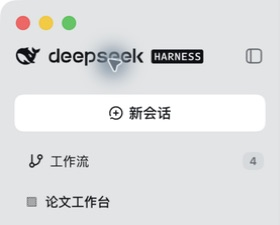
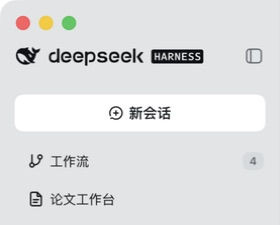
Add per-paper workspace instructions and matching navigation typography

Changed region(s): [[0.0857, 0.84, 0.4286, 0.9333], [0.3143, 0.1867, 0.4857, 0.3733]]

diff --git a/dist/client.js b/dist/client.js
@@ -44726,7 +44726,7 @@ body:has(.lp) .lp-home-entry, body:has(.lp-entry:not(.lp-home-entry .lp-entry)) 
 .lp-workspaces-host > .wf-workspace-wrapper { display:contents; }
 .lp-workspaces-host .wf-workspace-wrapper > .wf-tree { order:-1; }
 .lp-workspaces-host .wf-workspace-wrapper > :not(.wf-tree) { order:1; }
-.lp-sidebar-entry { display:flex; align-items:center; gap:8px; flex:none; order:0; margin:0 6px 8px; padding:8px; border:0; background:transparent; color:var(--dsw-alias-label-primary); font:500 13px/1.5 system-ui; text-align:left; }
+.lp-sidebar-entry { display:flex; align-items:center; gap:6px; flex:none; order:0; margin:0 6px 8px; min-height:30px; min-width:0; padding:5px 10px; border-radius:9px; border:0; background:transparent; color:var(--dsw-alias-label-primary); font:400 13px/1.5 var(--dsw-font-family, system-ui, sans-serif); letter-spacing:0; text-align:left; }
 .lp-sidebar-entry:hover { background:var(--dsw-alias-interactive-bg-hover); }
 .lp-sidebar-entry.is-rail { justify-content:center; margin-inline:0; }
 .dshDesktopFrame:has(.lp) { grid-template-columns:0 minmax(0,1fr) 0 !important; }
@@ -44735,6 +44735,10 @@ body:has(.lp) .lp-home-entry, body:has(.lp-entry:not(.lp-home-entry .lp-entry)) 
 .dshDesktopFrame:has(.lp) > .dshDesktopResizeHandle { display:none !important; }
 .dshDesktopFrame:has(.lp) > .dshDesktopConversationSurface { grid-column:2; }
 .qNbT7G_frame:has(.lp) > .qNbT7G_centerCol { grid-column:2; }
+
+.lp-sidebar-entry svg { flex:none; display:block; }
+.lp-sidebar-entry > span { min-width:0; overflow:hidden; text-overflow:ellipsis; white-space:nowrap; }
+.lp-sidebar-entry.is-rail { padding:6px 0; }
 `;
 
 // client/index.jsx
@@ -45148,7 +45152,10 @@ function apply(ctx) {
         "aria-label": "\u8BBA\u6587\u5DE5\u4F5C\u53F0",
         onClick: open,
         children: [
-          /* @__PURE__ */ (0, import_jsx_runtime.jsx)("span", { "aria-hidden": "true", children: "\u25A7" }),
+          /* @__PURE__ */ (0, import_jsx_runtime.jsxs)("svg", { width: "16", height: "16", viewBox: "0 0 24 24", fill: "none", stroke: "currentColor", strokeWidth: "2", strokeLinecap: "round", strokeLinejoin: "round", "aria-hidden": "true", children: [
+            /* @__PURE__ */ (0, import_jsx_runtime.jsx)("path", { d: "M14 2H6a2 2 0 0 0-2 2v16a2 2 0 0 0 2 2h12a2 2 0 0 0 2-2V8Z" }),
+            /* @__PURE__ */ (0, import_jsx_runtime.jsx)("path", { d: "M14 2v6h6M8 13h8M8 17h6" })
+          ] }),
           wide && /* @__PURE__ */ (0, import_jsx_runtime.jsx)("span", { children: "\u8BBA\u6587\u5DE5\u4F5C\u53F0" })
         ]
       }

diff --git a/lib/paper-prompt.js b/lib/paper-prompt.js
@@ -1,7 +1,20 @@
-export const PAPER_GUIDANCE = `你正在论文工作台中协助用户完善当前论文。
+export const PAPER_AGENTS = `# 论文工作区
+
+你正在论文工作台中协助用户完善当前论文。
+
+## 写作与审阅
+
+结合 abstract、section 和段落上下文修改文字，保持术语、论证与引用一致。保留 LaTeX 命令及数学表达式的语义。
+审阅意见涉及多处时逐项核对原文，明确修改范围；事实、实验数据和参考文献需要有可核查依据。
+修改完成后说明修改内容及验证结果；需要验证排版时使用项目配置的本地编译工具。
+
+## Git 与 Overleaf 同步
+
 开始操作前，先检查当前工作目录是否位于 Git 工作树中。
 如果是 Git 仓库，每次完成一轮论文文件修改后，都需要将本轮论文修改提交并 push 到对应的 Overleaf 仓库。
 先核实 Git 工作树根目录、当前分支和 remote；确认远端确实属于当前论文的 Overleaf 项目。不能仅凭 remote 名称为 origin 就认定它是 Overleaf。
 提交前检查差异，只纳入本轮论文相关修改，保留用户已有的其他修改。普通 push 后检查结果，只有成功才报告已同步。
 如果不是 Git 仓库，正常完成本地论文编辑并说明尚未配置 Git 同步。如果缺少 Overleaf remote、存在多个不明确的目标、凭据缺失、远端领先或合并冲突，保留本地成果并说明具体阻碍，请用户补充必要信息。
 不强制推送，不重写远端历史，不擅自创建或更换 remote，不推送到未经确认的其他仓库。不要在回复、日志或提交中泄露访问令牌、密码或含凭据的远端 URL。`;
+
+export const PAPER_GUIDANCE = `当前会话绑定论文工作区。每轮开始论文操作前，使用文件工具读取当前论文根目录的 AGENTS.md，并按照其中的论文写作、审阅和同步要求执行。文件由用户维护，以本轮读取的版本为准。`;

diff --git a/client/style.css b/client/style.css
@@ -749,7 +749,7 @@ body:has(.lp) .lp-home-entry, body:has(.lp-entry:not(.lp-home-entry .lp-entry)) 
 .lp-workspaces-host > .wf-workspace-wrapper { display:contents; }
 .lp-workspaces-host .wf-workspace-wrapper > .wf-tree { order:-1; }
 .lp-workspaces-host .wf-workspace-wrapper > :not(.wf-tree) { order:1; }
-.lp-sidebar-entry { display:flex; align-items:center; gap:8px; flex:none; order:0; margin:0 6px 8px; padding:8px; border:0; background:transparent; color:var(--dsw-alias-label-primary); font:500 13px/1.5 system-ui; text-align:left; }
+.lp-sidebar-entry { display:flex; align-items:center; gap:6px; flex:none; order:0; margin:0 6px 8px; min-height:30px; min-width:0; padding:5px 10px; border-radius:9px; border:0; background:transparent; color:var(--dsw-alias-label-primary); font:400 13px/1.5 var(--dsw-font-family, system-ui, sans-serif); letter-spacing:0; text-align:left; }
 .lp-sidebar-entry:hover { background:var(--dsw-alias-interactive-bg-hover); }
 .lp-sidebar-entry.is-rail { justify-content:center; margin-inline:0; }
 .dshDesktopFrame:has(.lp) { grid-template-columns:0 minmax(0,1fr) 0 !important; }
@@ -758,3 +758,7 @@ body:has(.lp) .lp-home-entry, body:has(.lp-entry:not(.lp-home-entry .lp-entry)) 
 .dshDesktopFrame:has(.lp) > .dshDesktopResizeHandle { display:none !important; }
 .dshDesktopFrame:has(.lp) > .dshDesktopConversationSurface { grid-column:2; }
 .qNbT7G_frame:has(.lp) > .qNbT7G_centerCol { grid-column:2; }
+
+.lp-sidebar-entry svg { flex:none; display:block; }
+.lp-sidebar-entry > span { min-width:0; overflow:hidden; text-overflow:ellipsis; white-space:nowrap; }
+.lp-sidebar-entry.is-rail { padding:6px 0; }

diff --git a/test/host.test.js b/test/host.test.js
@@ -1,6 +1,6 @@
 import test from "node:test";
 import assert from "node:assert/strict";
-import { mkdtemp, rm } from "node:fs/promises";
+import { mkdtemp, rm, readFile } from "node:fs/promises";
 import { tmpdir } from "node:os";
 import { join } from "node:path";
 import { apply } from "../index.js";
@@ -210,10 +210,19 @@ test("paper system guidance is restricted to bound project sessions", async t =>
   const render = h.variables.get("latex_paper_guidance");
   assert.equal(render({agent}), "");
   await h.request({ action: "update", id: p.id, patch: { chat: { id: agent.session.id, title: "Paper" } } });
-  assert.match(render({agent}), /Overleaf/);
-  assert.match(render({agent}), /push/);
+  assert.match(render({agent}), /AGENTS\.md/);
+
   assert.equal(render({}), "");
   assert.equal(render({agent: {session: {id: "other", header: {cwd: p.root}}}}), "");
   assert.equal(render({agent: {session: {id: agent.session.id, header: {cwd: tmpdir()}}}}), "");
   assert.equal(h.sections.find(s => s.name === "latex-paper-workbench").text, "{{latex_paper_guidance}}");
+});
+
+test("opening an existing paper creates its editable workspace instructions", async t => {
+  const h = await host(t);
+  const p = (await h.request({action:"create",name:"Workspace rules"})).value;
+  await rm(join(p.root,"AGENTS.md"));
+  const opened = (await h.request({action:"open",id:p.id})).value;
+  assert.ok(opened.files.some(file => file.name === "AGENTS.md"));
+  assert.match((await readFile(join(p.root,"AGENTS.md"),"utf8")), /Overleaf/);
 });

diff --git a/test/core.test.js b/test/core.test.js
@@ -228,3 +228,23 @@ test("annotation preserves compiled prose and paragraph boundaries", async (t) =
     after = await run("pdftotext", [second, "-"]);
   assert.equal(after.output, before.output);
 });
+
+test("paper instructions are independent and preserve imported custom rules", async t => {
+  const {s,p} = await setup(t);
+  const second = await s.add({name: "Second paper"});
+  const instructions = await s.read(p.id, "AGENTS.md");
+  assert.match(instructions.content, /Overleaf/);
+  await s.save(p.id, "AGENTS.md", "# Local writing rules\nUse concise prose.\n", instructions.hash);
+  await s.ensureInstructions(p);
+  assert.match((await s.read(p.id, "AGENTS.md")).content, /Local writing rules/);
+  assert.match((await s.read(second.id, "AGENTS.md")).content, /Overleaf/);
+  const imported = await new Store(join(s.directory, "other-store")).init();
+  const copy = await imported.add({name: "Imported", path:p.root});
+  assert.match((await imported.read(copy.id, "AGENTS.md")).content, /Local writing rules/);
+  await rm(join(second.root,"AGENTS.md"));
+  await s.ensureInstructions(second);
+  assert.match((await s.read(second.id,"AGENTS.md")).content,/Overleaf/);
+  await rm(join(second.root,"AGENTS.md"));
+  await symlink(join(p.root,"AGENTS.md"),join(second.root,"AGENTS.md"));
+  await assert.rejects(s.ensureInstructions(second),/符号链接/);
+});

diff --git a/lib/store.js b/lib/store.js
@@ -18,6 +18,7 @@ import {
   extname,
 } from "node:path";
 import { createHash, randomUUID } from "node:crypto";
+import { PAPER_AGENTS } from "./paper-prompt.js";
 export const digest = (text) => createHash("sha256").update(text).digest("hex");
 export function fail(message, code = "INVALID_REQUEST") {
   throw Object.assign(new Error(message), { code });
@@ -147,6 +148,7 @@ State the scope and limitations.
         );
       }
       root = await realpath(root);
+      await this.ensureInstructions({ root });
       const p = {
         id,
         name: name.trim(),
@@ -163,6 +165,16 @@ State the scope and limitations.
       await this.persist();
       return p;
     });
+  }
+  async ensureInstructions(project) {
+    const path = await inside(project.root, "AGENTS.md");
+    try {
+      await writeFile(path, PAPER_AGENTS + "\n", { flag: "wx", mode: 0o600 });
+    } catch (error) {
+      if (error.code !== "EEXIST") throw error;
+      const stat = await lstat(path);
+      if (!stat.isFile() || stat.isSymbolicLink()) fail("AGENTS.md 必须是项目内的普通文件");
+    }
   }
   async listFiles(id) {
     const p = this.get(id),

diff --git a/client/index.jsx b/client/index.jsx
@@ -439,7 +439,7 @@ export function apply(ctx) {
         aria-label="论文工作台"
         onClick={open}
       >
-        <span aria-hidden="true">▧</span>{wide && <span>论文工作台</span>}
+        <svg width="16" height="16" viewBox="0 0 24 24" fill="none" stroke="currentColor" strokeWidth="2" strokeLinecap="round" strokeLinejoin="round" aria-hidden="true"><path d="M14 2H6a2 2 0 0 0-2 2v16a2 2 0 0 0 2 2h12a2 2 0 0 0 2-2V8Z"/><path d="M14 2v6h6M8 13h8M8 17h6"/></svg>{wide && <span>论文工作台</span>}
       </button>
     );
   }

diff --git a/index.js b/index.js
@@ -232,6 +232,7 @@ export async function apply(ctx, config = {}) {
       case "create":
         return publicProject(await store.add(a));
       case "open":
+        await store.ensureInstructions(store.get(a.id));
         return {
           project: publicProject(store.get(a.id)),
           files: await store.listFiles(a.id),

diff --git a/docs/ACCEPTANCE.md b/docs/ACCEPTANCE.md
@@ -1,12 +1,26 @@
 # DSH LaTeX Studio 验收报告
 
-日期：2026-09-19。版本：0.1.2。环境：macOS、DSH Desktop 2.0.10、DeepSeek Harness 0.1.5-rc.2、Node.js 24.11.1、本地 MacTeX。
+日期：2026-09-19。版本：0.1.3。环境：macOS、DSH Desktop 2.0.10、DeepSeek Harness 0.1.5-rc.2、Node.js 24.11.1、本地 MacTeX。
 
 ## 结论
 
-本地论文编辑、真实编译与 PDF 预览、审阅选择、原生模型会话、Agent 文件修改、四级行文导图及增量更新的主要流程已在实际 Desktop 界面运行。18 项自动测试全部通过，构建和发布内容扫描通过。此结果对应上述固定环境，完整跨平台兼容性和极端故障恢复尚未验收。
+本地论文编辑、真实编译与 PDF 预览、审阅选择、原生模型会话、Agent 文件修改、四级行文导图及增量更新的主要流程已在实际 Desktop 界面运行。20 项自动测试全部通过，构建和发布内容扫描通过。此结果对应上述固定环境，完整跨平台兼容性和极端故障恢复尚未验收。
 
 测试数据为合成的 Research Demo、Methods Note 和临时目录论文。模型调用采用 Desktop 当前配置的真实 deepseek-flash 路由；自动测试中的固定语义响应只用于验证协议与缓存，不作为模型质量证据。
+
+## 论文工作区指令与导航
+
+| 编号 | 验收结果 |
+|---|---|
+| I01 | 自动测试通过：新建项目生成默认 AGENTS.md，两篇论文的规则互相独立 |
+| I02 | 自动测试通过：导入已有规则保持原文，旧项目打开时补齐缺失文件 |
+| I03 | 自动测试通过：符号链接拒绝写入，自定义文件重复打开后保持原文 |
+| I04 | Desktop 实测：Research Demo 文件栏出现 AGENTS.md，点击后编辑器显示写作、审阅及 Overleaf 规则；保存逻辑复用通过回归测试的文件编辑接口 |
+| I05 | Desktop 截图复核：入口采用 16px 线框图标，字体、字重和内边距与工作流一致 |
+
+论文会话系统提示词引导 Agent 每轮读取本项目 AGENTS.md。原生工作区指令加载实现已复核，本轮未另发模型请求验证遵循效果；Overleaf 真实远端推送仍未测试。
+
+![论文工作区指令](../assets/paper-instructions.png)
 
 ## 工作台导航与论文会话验收
 
@@ -23,7 +37,7 @@
 | N07 | Agent 向真实 Overleaf 远端提交并推送 | 未执行；未提供测试 Overleaf 远端及凭据 |
 | N08 | 导图单击 Abstract，随后双击 Abstract | 通过；单击选中，双击定位 abstract 原文 |
 
-Overleaf 同步规则通过 Harness 的动态 systemPrompt variable/section 接入；由 Agent 每轮编辑后执行。编辑器手动保存、编译和语义导图注释写入本身不触发 Git 提交。已有历史消息的提示词记录对应当时运行，新增规则用于后续 Agent 调用。
+论文规则保存在项目 AGENTS.md；Harness 的动态 systemPrompt variable/section 引导 Agent 每轮读取并执行。编辑器手动保存、编译和语义导图注释写入本身不触发 Git 提交。已有历史消息的提示词记录对应当时运行，新增规则用于后续 Agent 调用。
 
 ![主导航入口](../assets/navigation.png)
 

diff --git a/README.md b/README.md
@@ -42,7 +42,10 @@ npm run build
 
 聊天、模型选择、文件工具和权限审批沿用 Desktop 的 deepseek-harness。插件复用已有模型路由；论文会话绑定论文目录。语义分析调用同一路由的原生子代理，并禁用其文件工具，返回结构化结果后由插件检查并写入。
 
-论文绑定会话的系统提示词要求 Agent 在开始操作前检查当前目录的 Git 状态，每轮论文修改完成后提交并推送到经核实的 Overleaf 项目。提交范围限定为本轮论文修改，推送成功后才报告同步完成；缺少远端、凭据或遇到冲突时保留本地成果并报告阻碍。此功能由 Agent 执行，编辑器手动保存与编译本身不会触发 Git 操作。
+每篇论文根目录拥有独立的 `AGENTS.md`，可以在工作台文件栏直接打开、编辑并保存。新建、导入和打开已有论文时，插件为缺失的文件生成默认写作、审阅与 Overleaf 同步规则；已有文件保留原内容。不同论文分别维护自己的规则。导入项目若已有自定义文件，可按需补充 Overleaf 要求。
+
+论文绑定会话的系统提示词要求 Agent 每轮操作前读取根目录 `AGENTS.md`。Harness 同时沿用原生工作区指令加载机制，全局及适用的上级指令继续生效。默认规则要求先检查 Git，再将每轮论文修改提交并推送到经核实的 Overleaf 项目，检查同步结果。此过程由 Agent 执行，手动保存和编译本身不触发 Git 操作。`AGENTS.md` 是项目文件，可随论文版本管理；其中仅应保存协作规则。
+
 
 模型分析会将相关论文段落发送给用户在 Desktop 中配置的模型服务。普通编辑与编译在本机执行。文件、审阅、PDF、语义缓存和分析前备份保存在所用 DSH home 的 `latex-studio/` 下；导入项目的源码仍位于原目录。插件不包含分析统计上报或独立账号服务。
 

diff --git a/docs/TEST-PLAN.md b/docs/TEST-PLAN.md
@@ -66,3 +66,13 @@
 | N05 | 项目名称与右侧箭头对齐，浅色及深色均可读 |
 | N06 | 系统提示词仅用于绑定项目且目录匹配的会话；未绑定会话和其他目录返回空提示 |
 | N07 | Overleaf 实际提交与推送需要可用测试远端和凭据；记录执行证据及提交范围 |
+
+## 独立论文指令
+
+| 编号 | 操作与预期 |
+|---|---|
+| I01 | 新论文生成 AGENTS.md；两篇论文分别修改并保持独立 |
+| I02 | 导入已存在规则的论文，保留原文；打开缺失规则的旧论文补齐默认文件 |
+| I03 | AGENTS.md 为符号链接时拒绝写入；用户已有文件保持不变 |
+| I04 | 文件栏打开 AGENTS.md，使用编辑器保存；后续 Agent 操作要求重新读取 |
+| I05 | 主导航论文入口与工作流图标尺寸、文本起点、行高对齐 |
